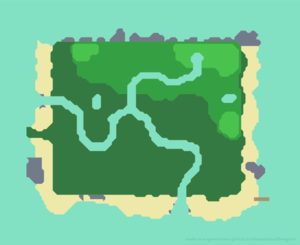
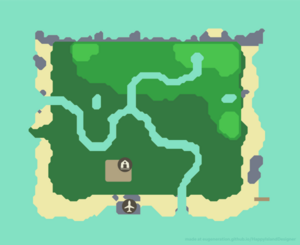
fix west-d2 beaches and amenities

diff --git a/app/components/islandLayouts.ts b/app/components/islandLayouts.ts
@@ -129,7 +129,7 @@ export default {
       name: 'd2',
       contributor: 'SarahLaSerena#5601',
       link: 'https://discord.com/channels/701219058707726406/703892245228552202/717167301593530430',
-      data: '{"version":1,"objects":{"amenities_center":[85,54],"amenities_airport":[60,84]},"drawing":{"sand":[[5,12,5,9,6,8,8,8,9,9,9,11,10,11,11,10,15,10,16,11,16,13,17,12,18,12,19,13,20,12,21,12,22,11,23,11,24,12,26,12,27,11,29,11,30,10,31,10,32,11,32,13,34,11,35,11,36,12,35,13,36,13,37,12,38,13,40,11,41,11,41,9,43,7,45,7,46,8,46,12,47,13,48,13,48,11,49,10,49,9,50,8,51,8,53,6,57,6,59,8,61,8,62,9,62,10,64,12,64,10,65,9,68,9,69,10,69,12,74,12,75,11,79,11,80,12,82,12,83,11,86,11,88,13,90,11,92,11,93,10,94,10,95,11,95,12,96,13,97,12,96,11,98,9,100,9,101,10,102,10,103,9,107,9,107,17,109,19,109,20,110,20,112,22,112,25,111,26,107,26,106,27,106,29,107,30,107,34,104,37,102,37,101,38,93,38,92,37,92,24,89,21,87,21,86,22,79,22,78,23,71,23,70,24,69,24,68,25,56,25,55,26,53,26,53,27,52,28,52,29,51,30,51,35,50,36,50,44,49,45,44,45,43,44,43,33,39,29,35,29,33,27,28,27,27,28,23,28,21,26,21,22,22,22,23,21,23,19,22,18,16,18,16,21,18,23,18,27,19,28,19,29,20,30,21,30,22,31,29,31,30,30,32,30,34,32,38,32,40,34,40,46,42,48,50,48,51,49,51,51,50,52,50,55,54,59,59,59,60,60,60,67,59,68,59,69,58,70,55,70,53,68,44,68,43,67,41,67,40,68,40,69,38,71,38,72,37,73,37,77,39,79,39,80,38,81,38,90,37,91,37,92,36,93,31,93,30,92,28,92,26,94,24,94,23,95,20,95,19,94,18,94,17,93,14,93,13,94,9,94,6,91,6,89,4,87,4,84,5,83,5,79,7,77,7,69,5,67,5,63,6,62,6,58,7,57,7,51,5,49,5,46,6,45,7,45,6,44,6,42,7,41,7,39,5,39,3,37,3,35,4,35,4,34,5,33,6,33,5,32,5,31,6,30,6,27,5,26,5,24,6,23,6,19,5,18,5,14,6,13],[108,90,106,92,105,92,104,93,103,93,102,94,98,94,97,93,95,93,94,94,93,94,92,95,90,95,89,94,88,94,87,95,83,95,81,93,79,93,74,88,70,88,69,87,69,92,58,92,58,86,57,86,56,87,55,87,49,93,44,93,43,92,43,91,42,90,42,82,43,81,43,79,42,78,42,77,41,76,41,73,42,72,52,72,54,74,61,74,62,73,62,72,64,70,64,59,63,58,63,57,62,56,61,56,60,55,55,55,54,54,54,52,55,51,55,47,54,46,54,38,55,37,55,32,57,30,58,30,59,29,71,29,73,27,79,27,80,26,87,26,88,27,88,34,87,35,87,37,89,39,89,40,90,41,92,41,93,42,101,42,103,44,104,44,105,45,106,45,107,46,107,49,106,50,106,51,107,52,107,54,108,55,108,57,106,59,106,62,107,63,107,66,106,67,106,69,105,70,105,73,106,72,107,72,109,74,109,75,108,76,108,77,107,78,107,82,109,84,109,86,108,87],[78,50,78,52,79,53,80,53,81,52,82,52,83,53,84,53,85,52,85,50,86,49,86,48,85,47,83,47,82,46,81,46,80,47,78,47,77,48,77,49],[18,64,17,64,16,65,16,67,17,68,24,68,25,67,25,65,24,64,22,64,22,62,23,61,23,59,22,58,19,58,18,57,16,57,15,58,15,60,16,61,17,61,18,62],[36,12,36,11,37,12]],"level1":[[98,13,99,14,99,18,102,21,107,21,108,20,110,20,112,22,112,25,111,26,108,26,107,25,106,25,105,24,103,24,101,26,101,28,99,30,99,35,100,36,100,38,93,38,92,37,92,24,89,21,87,21,86,22,79,22,78,23,71,23,70,24,69,24,68,25,56,25,55,26,53,26,53,27,52,28,52,29,51,30,51,35,50,36,50,44,49,45,44,45,43,44,43,33,39,29,35,29,33,27,28,27,27,28,23,28,21,26,21,22,22,22,23,21,23,19,22,18,16,18,16,21,18,23,18,27,19,28,19,29,20,30,21,30,22,31,29,31,30,30,32,30,34,32,38,32,40,34,40,46,42,48,50,48,51,49,51,51,50,52,50,55,54,59,59,59,60,60,60,67,59,68,59,69,58,70,55,70,53,68,44,68,43,67,41,67,40,68,40,69,38,71,38,72,37,73,37,77,39,79,39,80,38,81,38,84,37,84,36,83,31,83,30,84,29,84,27,86,24,86,23,85,22,85,21,84,19,84,18,83,15,83,14,82,13,82,13,78,11,76,11,72,12,71,12,69,13,68,13,62,11,60,11,53,12,52,12,50,13,49,13,46,12,45,12,40,11,39,11,36,13,34,13,30,12,29,12,28,11,27,11,21,12,20,12,18,13,17,13,14,14,13],[43,81,43,79,42,78,42,77,41,76,41,73,42,72,52,72,54,74,61,74,62,73,62,72,64,70,64,59,63,58,63,57,62,56,61,56,60,55,55,55,54,54,54,52,55,51,55,47,54,46,54,38,55,37,55,32,57,30,58,30,59,29,71,29,73,27,79,27,80,26,87,26,88,27,88,34,87,35,87,37,89,39,89,40,90,41,92,41,93,42,100,42,100,43,99,44,99,49,101,51,101,52,102,53,102,56,101,57,101,58,100,59,100,61,99,62,99,66,100,67,100,72,101,73,101,76,99,78,99,81,97,83,94,83,93,84,90,84,88,86,84,86,81,83,44,83,43,84,42,84,42,82],[78,50,78,52,79,53,80,53,81,52,82,52,83,53,84,53,85,52,85,50,86,49,86,48,85,47,83,47,82,46,81,46,80,47,78,47,77,48,77,49],[18,64,17,64,16,65,16,67,17,68,24,68,25,67,25,65,24,64,22,64,22,62,23,61,23,59,22,58,19,58,18,57,16,57,15,58,15,60,16,61,17,61,18,62]],"level2":[22,22,23,21,23,19,22,18,16,18,16,21,18,23,18,27,19,28,19,29,20,30,21,30,22,31,29,31,30,30,32,30,34,32,38,32,40,34,40,37,38,37,36,39,33,39,32,40,31,40,30,41,30,42,29,43,29,50,31,52,31,60,30,61,28,61,27,62,25,62,24,63,23,63,22,62,23,61,23,59,22,58,19,58,18,57,16,57,15,58,15,60,16,61,17,61,18,62,18,63,15,63,13,61,13,56,14,55,14,52,13,51,13,42,14,41,14,37,13,36,13,32,14,31,14,27,13,26,13,24,14,23,14,17,17,14,16,14,16,13,77,13,78,14,78,16,79,17,79,18,78,19,78,20,77,21,75,21,74,20,66,20,65,21,62,21,61,20,59,20,57,22,56,22,55,23,50,23,49,24,49,25,48,26,48,29,49,30,50,30,51,31,51,35,50,36,50,41,48,41,46,39,44,39,43,38,43,33,39,29,35,29,33,27,28,27,27,28,23,28,21,26,21,22],"level3":[[22,22,23,21,23,19,22,18,16,18,16,21,18,23,18,24,15,24,14,23,14,17,17,14,54,14,55,15,55,18,54,19,52,19,51,20,46,20,45,21,38,21,37,20,32,20,31,21,26,21,24,23,23,23,22,24,21,24,21,22],[16,37,21,37,22,38,23,38,25,40,25,43,26,44,26,47,25,48,24,48,22,50,19,50,18,49,17,49,16,50,15,50,14,49,14,44,15,43,15,38]],"rock":[[8,14,7,13,6,13,5,12,5,9,6,8,8,8,9,9,9,11,10,11,11,10,15,10,16,11,16,13,14,13,13,14,13,16,12,16,10,14],[107,12,106,12,104,14,102,14,101,15,100,15,99,16,99,14,98,13,96,13,97,12,96,11,98,9,100,9,101,10,102,10,103,9,107,9],[103,45,103,44,104,44,106,46,106,47,105,47],[103,67,105,67,106,68,106,69,105,70,103,70,102,69,102,68],[103,74,104,74,106,72,107,72,109,74,109,75,108,76,108,77,107,78,105,78,103,76],[102,36,103,35,104,35,105,36,104,37,103,37],[57,83,58,83,59,84,59,86,64,86,65,87,69,87,69,92,58,92,58,85,57,85],[63,85,62,85,61,84,62,83,68,83,69,84,69,86,65,86,64,85,64,84],[42,88,43,89,43,91,42,90],[38,89,38,90,37,91,37,90],[7,41,8,41,10,43,10,44,9,45,7,45,6,44,6,42],[9,36,9,38,8,39,5,39,3,37,3,35,4,35,4,34,5,33,7,33,7,34],[88,13,90,11,92,11,93,10,94,10,95,11,95,12,96,13],[83,11,86,11,88,13,48,13,48,11,49,10,49,9,50,8,51,8,52,9,52,10,53,11,58,11,58,9,59,8,61,8,62,9,62,10,64,12,64,10,65,9,68,9,69,10,69,12,74,12,75,11,79,11,80,12,82,12],[40,11,41,11,41,9,43,7,45,7,46,8,46,12,47,13,38,13],[38,13,32,13,34,11,36,11],[29,11,30,10,31,10,32,11,32,13,19,13,20,12,21,12,22,11,23,11,24,12,26,12,27,11],[18,12,19,13,16,13,17,12]],"pathStone":[],"pathDirt":[7,84,7,86,1,86,1,84]}}',
+      data: '{"version":1,"objects":{"amenities_dock":[105,84],"amenities_center":[42,65],"amenities_airport":[44,84]},"drawing":{"sand":[[5,22,4,21,4,20,5,19,6,19,6,18,5,17,5,9,6,8,8,8,9,9,9,11,10,11,11,10,15,10,16,11,16,12,18,12,19,11,21,11,22,12,23,12,24,13,26,11,29,11,30,10,31,11,31,13,32,12,32,10,33,9,34,9,35,8,36,9,36,12,37,12,38,11,39,11,40,12,42,12,43,11,48,11,48,10,49,9,50,9,51,8,52,8,53,9,53,12,54,12,55,11,56,11,57,12,58,12,59,11,63,11,64,12,66,12,67,11,69,11,70,12,71,12,72,13,73,13,74,12,76,12,76,11,77,10,78,10,79,11,79,12,80,13,80,11,84,7,90,7,91,8,92,8,93,9,93,10,95,12,96,12,96,11,97,10,100,10,101,11,103,9,105,9,106,8,107,8,108,7,109,7,110,8,109,9,109,14,107,14,107,17,104,20,104,23,106,25,106,28,107,29,107,34,105,36,105,38,104,39,104,43,105,44,105,45,107,47,107,49,108,50,108,52,110,54,110,58,109,59,109,61,107,63,107,65,108,65,109,66,109,69,107,71,107,72,108,73,108,75,107,76,107,87,106,88,105,88,104,89,103,89,102,90,100,90,97,93,94,93,93,94,92,94,91,95,87,95,86,94,84,94,83,93,77,93,76,92,75,92,75,91,74,90,74,79,76,77,76,76,80,72,80,70,81,69,81,65,80,64,80,61,79,60,78,60,77,59,75,59,74,58,66,58,65,57,63,57,60,54,60,52,58,50,58,48,56,46,55,46,54,45,53,45,51,43,51,33,54,30,61,30,62,31,63,31,65,33,71,33,72,32,73,32,74,31,77,31,79,29,80,29,81,28,81,22,82,21,82,20,80,18,78,18,76,20,76,22,77,23,77,26,75,28,73,28,72,29,71,29,70,30,66,30,64,28,63,28,62,27,53,27,51,29,50,29,49,30,49,31,47,33,47,42,45,44,43,44,41,46,40,46,38,48,38,49,39,50,39,55,38,56,38,57,36,59,31,59,28,56,28,54,27,53,27,45,24,42,23,42,21,40,20,40,18,38,9,38,5,34,5,30,6,29,6,25,5,24],[34,15,34,14,33,14],[51,14,51,13,44,13,44,14],[92,37,90,39,90,40,91,41,95,41,97,39,97,38,96,37],[94,53,93,52,93,54,94,54],[33,37,31,39,31,43,32,44,34,44,35,43,35,38,34,37],[47,46,49,46,52,49,54,49,55,50,55,52,57,54,57,56,58,57,58,58,61,61,64,61,65,62,72,62,73,63,76,63,78,65,78,68,77,69,77,70,73,74,73,75,72,76,72,77,71,78,71,79,70,80,70,90,69,91,69,92,68,93,63,93,58,88,54,88,53,89,53,92,43,92,42,91,42,88,38,88,33,93,32,92,31,93,30,93,29,94,28,94,27,95,23,95,22,94,20,94,19,93,14,93,13,94,10,94,9,93,8,93,6,91,6,89,4,87,4,84,5,83,5,79,6,78,6,75,5,74,5,72,6,71,6,67,5,66,5,62,7,60,7,59,8,58,7,57,5,57,2,54,2,53,5,50,5,46,7,44,8,44,10,42,17,42,19,44,20,44,22,46,23,46,24,47,24,55,25,56,25,58,30,63,37,63,40,60,40,59,42,57,42,51,43,50,43,49,45,47,46,47]],"level1":[[12,38,12,37,13,36,13,31,12,30,12,27,13,26,13,24,12,23,12,18,13,17,13,14,14,13,97,13,99,15,99,17,100,18,100,19,101,20,101,25,100,26,100,29,99,30,99,33,100,34,100,35,99,36,99,38,100,39,100,43,99,44,99,49,102,52,102,55,101,56,101,58,100,59,100,60,99,61,99,65,100,66,100,69,99,70,99,75,100,76,100,78,99,79,99,81,97,83,95,83,94,84,93,84,92,85,89,85,88,86,85,86,84,85,83,85,81,83,76,83,75,84,74,84,74,79,76,77,76,76,80,72,80,70,81,69,81,65,80,64,80,61,79,60,78,60,77,59,75,59,74,58,66,58,65,57,63,57,60,54,60,52,58,50,58,48,56,46,55,46,54,45,53,45,51,43,51,33,54,30,61,30,62,31,63,31,65,33,71,33,72,32,73,32,74,31,77,31,79,29,80,29,81,28,81,22,82,21,82,20,80,18,78,18,76,20,76,22,77,23,77,26,75,28,73,28,72,29,71,29,70,30,66,30,64,28,63,28,62,27,53,27,51,29,50,29,49,30,49,31,47,33,47,42,45,44,43,44,41,46,40,46,38,48,38,49,39,50,39,55,38,56,38,57,36,59,31,59,28,56,28,54,27,53,27,45,24,42,23,42,21,40,20,40,18,38],[33,37,31,39,31,43,32,44,34,44,35,43,35,38,34,37],[92,37,90,39,90,40,91,41,95,41,97,39,97,38,96,37],[94,53,93,52,93,54,94,54],[47,46,49,46,52,49,54,49,55,50,55,52,57,54,57,56,58,57,58,58,61,61,64,61,65,62,72,62,73,63,76,63,78,65,78,68,77,69,77,70,73,74,73,75,72,76,72,77,71,78,71,79,70,80,70,83,69,84,68,83,31,83,30,84,29,84,28,85,25,85,24,86,21,86,20,85,19,85,17,83,15,83,14,82,13,82,13,78,12,77,12,76,11,75,11,69,12,68,12,66,13,65,13,63,12,62,12,60,11,59,11,58,10,58,9,57,5,57,2,54,2,53,3,52,4,53,6,53,7,52,8,52,9,51,11,51,13,49,13,46,12,45,12,42,17,42,19,44,20,44,22,46,23,46,24,47,24,55,25,56,25,58,30,63,37,63,40,60,40,59,42,57,42,51,43,50,43,49,45,47,46,47]],"rock":[[7,36,8,35,9,35,10,36,10,37,9,38],[70,84,69,84,70,83],[96,11,97,10,100,10,101,11,103,9,105,9,106,8,107,8,108,7,109,7,110,8,109,9,109,14,107,14,107,15,99,15,97,13,80,13,80,11,83,8,84,9,84,10,85,11,90,11,90,9,91,8,92,8,93,9,93,10,95,12,96,12],[100,39,99,38,99,36,100,35,102,35,103,36,102,37,101,37,101,38],[5,9,6,8,8,8,9,9,9,11,10,11,11,10,15,10,16,11,16,12,18,12,19,11,21,11,22,12,23,12,24,13,14,13,13,14,13,15,12,15,11,14,8,14,6,12,5,12],[4,21,4,20,5,19,6,19,7,20,8,20,10,22,10,24,8,26,7,26,5,24,5,22],[7,44,8,45,7,46,6,45],[42,87,43,86,49,86,50,87,52,87,53,88,53,92,43,92,42,91],[40,84,41,83,42,83,43,84,43,85,42,86],[45,84,46,83,52,83,53,84,53,86,50,86,49,85,46,85],[69,90,70,89,70,90,69,91],[74,88,75,89,75,91,74,90],[109,69,107,71,107,72,108,73,108,75,105,78,103,78,102,77,102,73,103,72,103,67,105,65,108,65,109,66],[76,11,77,10,78,10,79,11,79,12,80,13,73,13,74,12,76,12],[26,11,29,11,30,10,31,11,31,12,32,12,32,10,33,9,34,9,35,8,36,9,36,12,37,12,38,11,39,11,40,12,42,12,43,11,48,11,48,10,49,9,50,9,51,8,52,8,53,9,53,12,54,12,55,11,56,11,57,12,58,12,59,11,63,11,64,12,66,12,67,11,69,11,70,12,71,12,72,13,24,13]],"level2":[[47,37,43,37,39,33,38,33,37,32,30,32,28,30,27,30,26,29,25,29,24,28,24,24,22,22,22,19,21,18,21,15,23,13,97,13,99,15,99,27,98,28,98,34,99,35,99,56,97,58,94,58,93,57,92,57,90,55,89,55,88,54,88,51,85,48,85,47,84,46,84,41,81,38,79,38,78,37,71,37,68,40,66,40,65,39,64,39,63,40,59,40,56,37,51,37,51,33,54,30,61,30,62,31,63,31,65,33,71,33,72,32,73,32,74,31,77,31,79,29,80,29,81,28,81,22,82,21,82,20,80,18,78,18,76,20,76,22,77,23,77,26,75,28,73,28,72,29,71,29,70,30,66,30,64,28,63,28,62,27,53,27,51,29,50,29,49,30,49,31,47,33],[92,37,90,39,90,40,91,41,95,41,97,39,97,38,96,37],[94,53,93,52,93,54,94,54]],"level3":[[98,25,95,28,94,28,93,29,90,29,89,28,89,27,87,25,81,25,81,22,82,21,82,20,80,18,78,18,76,20,76,22,77,23,77,25,74,25,71,22,70,22,69,21,69,18,68,17,68,15,69,14,95,14,98,17],[96,45,98,47,98,55,96,57,94,57,92,55,91,55,89,53,89,49,90,48,90,47,92,45],[23,14,33,14,34,15,34,18,33,19,31,19,30,20,30,21,29,22,24,22,22,20,22,15]],"pathStone":[]}}',
       quality: 5,
     },
     {
